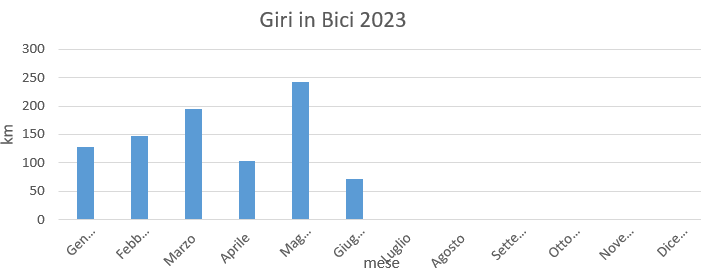
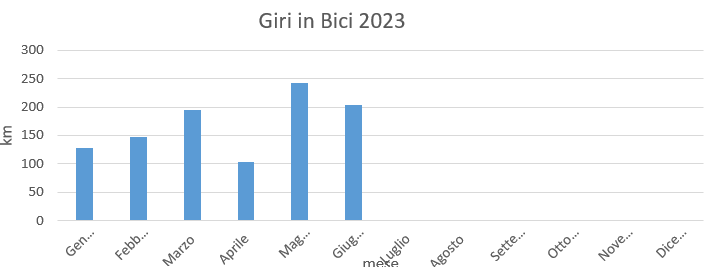
Add files via upload

diff --git a/Statistiche/Statistiche2023.html b/Statistiche/Statistiche2023.html
@@ -47,37 +47,37 @@
         <tr>
             <td>Gennaio</td>
             <td>127</td>
-            <td> 14,33%</td>
+            <td> 12,49%</td>
         </tr>
 
         <tr>
             <td>Febbraio</td>
             <td>148</td>
-            <td>16,70%</td>
+            <td>14,55%</td>
         </tr>
 
         <tr>
             <td>Marzo</td>
             <td>194</td>
-            <td>21,90%</td>
+            <td>19,08%</td>
         </tr>
 
         <tr>
             <td>Aprile</td>
             <td>103</td>
-            <td>11,63%</td>
+            <td>10,13%</td>
         </tr>
 
         <tr>
             <td>Maggio</td>
             <td>242</td>
-            <td>27,31%</td>
+            <td>23,80%</td>
         </tr>
 
         <tr>
             <td>Giugno</td>
-            <td>72</td>
-            <td>8,13%</td>
+            <td>203</td>
+            <td>19,96%</td>
         </tr>
 
     </table>
@@ -87,10 +87,10 @@
     <br>
 
     <br>
-    <p>totale km 886
+    <p>totale km 1017
         <img src="../Icone/traguardo.png">
     </p>
-    <p>km medi percorsi 52,12 km </p>
+    <p>km medi percorsi 56,50 km </p>
     <br>
     
 

diff --git a/Primavera/Primavera2023.html b/Primavera/Primavera2023.html
@@ -188,13 +188,25 @@
             <td>km</td>
         </tr>
 
+
+        <tr>
+            <td>18 Giugno</td>
+            <td>13</td>
+            <td><a
+                    href="https://www.komoot.com/it-it/tour/1174674763?share_token=ae1L5hzOgDJWTwn2duBuGCAzcpY4VIs1du9WMpFUZlf0KCpxsK&ref=wtd">
+                    Da Tarvisio a Codroipo</a>
+            </td>
+            <td>131</td>
+            <td>km</td>
+        </tr>
+
     </table>
 
     <br>
-    <p> totale km 611
+    <p> totale km 742
         <img src="../Icone/traguardo.png">
     </p>
-    <p>km medi percorsi 50,92</p>
+    <p>km medi percorsi 57,08</p>
     <br>
 </body>
 

diff --git a/Statistiche.html b/Statistiche.html
@@ -83,7 +83,7 @@
             </td>
 
             <td>
-                25,2%
+                24,80%
             </td>
 
         </tr>
@@ -99,7 +99,7 @@
             </td>
 
             <td>
-                26,8%
+                26,40%
             </td>
         </tr>
 
@@ -113,7 +113,7 @@
             </td>
 
             <td>
-                39,0%
+                38,50%
             </td>
 
         </tr>
@@ -124,11 +124,11 @@
             </td>
 
             <td>
-                886
+                1017
             </td>
 
             <td>
-                9,1%
+                10,30%
             </td>
 
         </tr>

diff --git a/Giri.html b/Giri.html
@@ -217,10 +217,10 @@
 
     <br>
     <p>
-        totale km fatti 9764
+        totale km fatti 9895
         <img src="Icone/traguardo.png">
     </p>
-    <p>km medi percorsi 69,25 km </p>
+    <p>km medi percorsi 69,68 km </p>
     <br>
 
     <br>

diff --git a/Primavera.html b/Primavera.html
@@ -92,7 +92,7 @@
                 </td>
     
                 <td>
-                    611
+                    742
                 </td>
             </tr>
 
